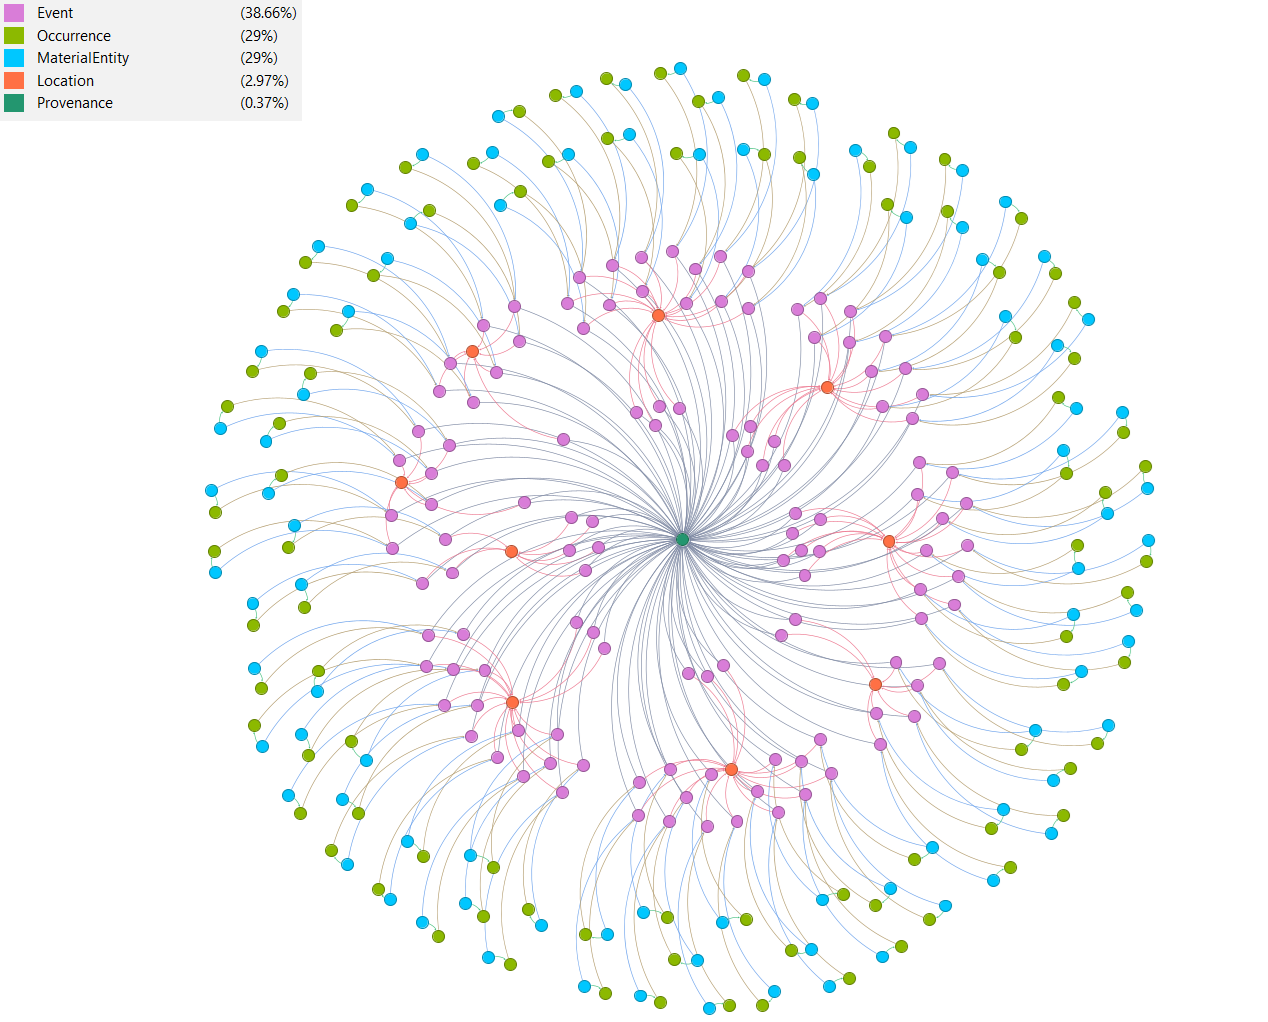
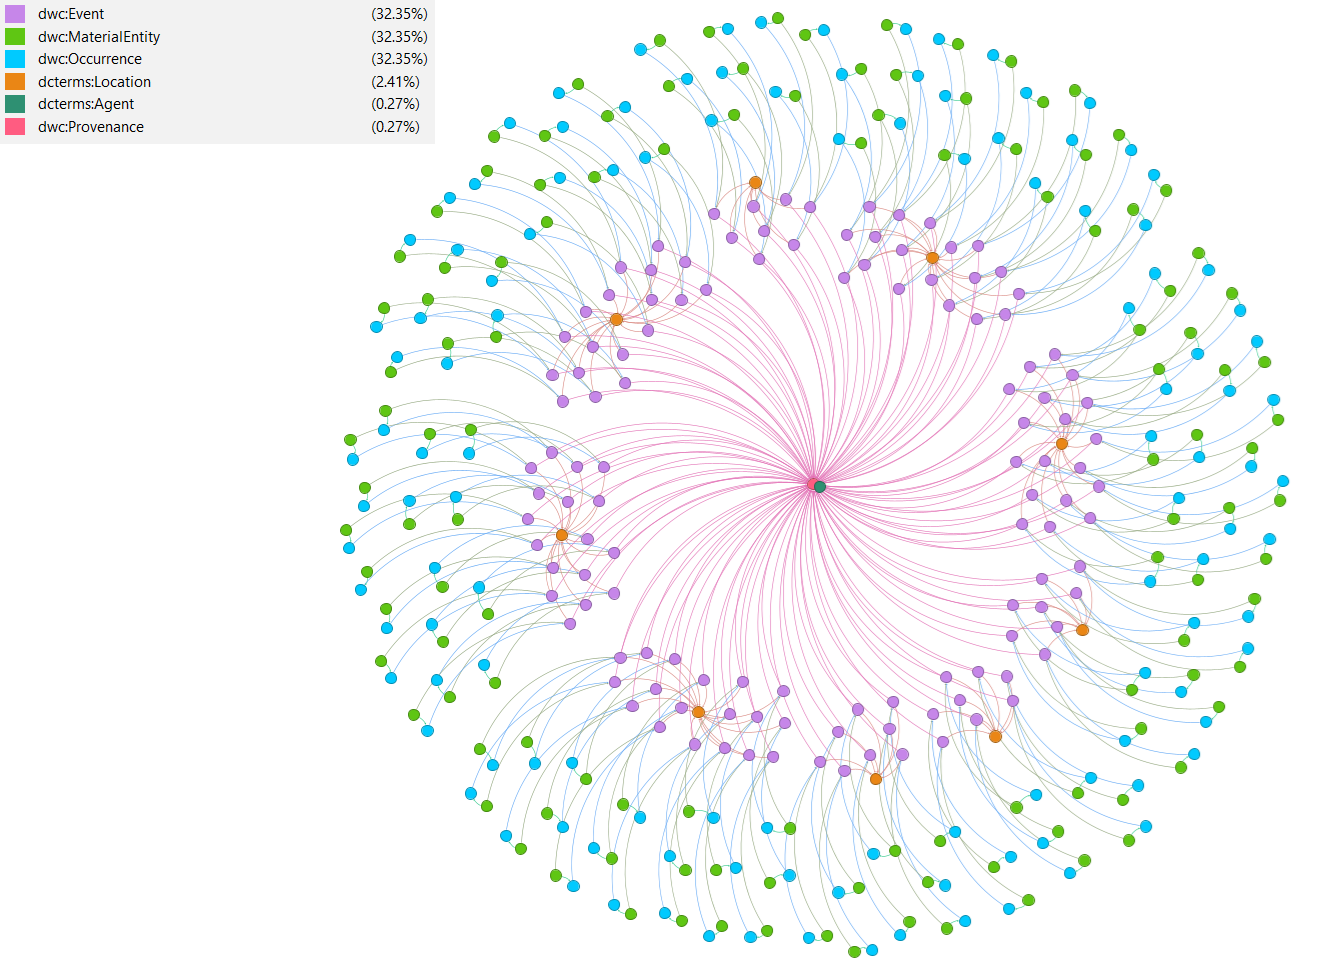
add broke-west fish text

diff --git a/README.md b/README.md
@@ -52,6 +52,231 @@ Each dataset will therefore be described according to the following structure:
 
 ## Real-world datasets
 
+### Broke-West fish
+
+- **Dataset definition**: During the the BROKE-west cruise of RV Aurora Australis from January 2nd to March 17th, 2006, fish were sampled in the CCAMLR subarea of the Antarctic coastline. Sampling was conducted using Rectangular Midwater Trawl (RMT) nets to target midwater fish. Two trawling methods were employed: target trawls directed at acoustically detected aggregations, and routine double oblique hauls from the surface down to 200 m and back. The study considers a variety of material entities derived from the caught fish, as well as media images of these entities.
+
+- **Dataset organization**: The dataset, as a Darwin Core DataPackage was obtained [from the GBIF test IPT](https://dwcdp-ipt.gbif-test.org/resource?r=broke-west-fish). The DataPackage contains 22 .csv files, corresponding to the different tables [based on the suggested DwCDP SQL schema](https://raw.githubusercontent.com/gbif/dwc-dp-examples/refs/heads/master/gbif/dwc_dp_schema.sql).
+
+- **Modelling considerations**: Although modelling this dataset requires a relatively high number of classes (fifteen), the overall approach is not particularly complex once the dataset structure is understood and have seen enough examples on this page. For instance, `dwc:Occurrences` take place within nested `dwc:Events`, which are conducted by `dcterms:Agents`. The relationships defined in the ontology closely mirror the structure of the dataset itself. This highlights evidenced by the thoughtful laying out of the tables and their relationships in the DwCDP model.
+
+  One modelling aspect that deserves special attention, and which will be discussed further in a subsequent section, is the handling of entries in the `agent-agent-role.csv` table. This table relates individual `dcterms:Agent` instances to another `dcterms:Agent` representing a collective or group. These group agents are then related to scientific publications, modelled as `dcterms:BibliographicResource`, via authorship relationships. While this approach is conceptually straightforward, it introduces additional complexity that may not always be necessary.
+
+  Because this table represents relationships between pairs of `rdfs:Resource` instances (or `owl:Thing`, depending on how you model it), `dwc:AgentAgentRole` class was treated here as a subclass of the more general `dwc:ResourceRelationship`. As such, it inherits properties from its parent class, while allowing additional properties to capture more specific information, such as author order within a publication.
+
+  Another modelling challenge concerns the representation of protocols associated with event assertions, material entities, and surveys. This is addressed by defining the range of the object property `dwcdp:follows` as `dwc:Protocol`, while allowing for a broad domain that includes `dwc:Assertion`, `dwc:MaterialEntity`, and `eco:Survey`.
+
+- **Ontology subset considered**: Compared to the other datasets examined, the Broke-West fish dataset requires a relatively large number of classes and a complex network of relationships. Nevertheless, the structure of these relationships remains conceptually straightforward.
+
+  Without exhaustively describing the entire graph, several notable features deserve mention:
+
+  - The instances of `dcterms:Agent` can play multiple roles, as reflected by the numerous relationships pointing toward them.
+  - Instances from several classes can be related to `dwc:Protocol` through the `dwcdp:follows` object property.
+  - Instances of `dwc:Event` can be nested within other `dwc:Event` instances via `dwcdp:happenedDuring`.
+  - `dwc:MaterialEntity` instances can themselves be derived from other `dwc:MaterialEntity` instances using the `dwcdp:derivedFrom` object property.
+
+![Ontology subset for the broke dataset](images/subset/broke-small.png)
+
+- **Additions made**: Given the level of documenting of the dataset, no considerable additions were made. The researcher Yi-Ming Gan, who provided metadata for the currently up to 18 versions of the dataset on the test IPT was modeled as a `dcterms:Agent` and added to the dataset as a metadata provider.
+
+- **Difficulties encountered**: The dataset is exceptionally well annotated: IRIs are provided for nearly every measurement, and all fields are carefully documented. Nevertheless, four specific issues were identified during modelling:
+
+  2. The `agent-agent-role.txt` table was also a bit of an issue to deal with. Indeed, there is already the object property `dwcdp:authoredBy`, which is a subproperty of `dcterms:creator` to link bibliographic resources to their authors. Consequently, consideration of such a concept seemed like a making the relationship between authors and bibliographic resource more complex. Likewise, no such approach can be taken if the bibliographic resource considers a single author. However, such an approach can have its merit if:
+
+    - The contribution to the bibliographic resource might need to be more detailed. For example, the property `dwc:agentRoleOrder` allows the consideration of the author order in a group of authors. A similar approach can consider RDF lists, but would require consideration of all authors to preserve numerical order.
+    - The relationship between two `dcterms:Agents` needs to be more defined. For example, one agent might be a researcher, and another might be an institution. The relationship might be more fleshed out through roles and periods, through which the role was active.
+
+  If both possibilities are considered (i.e. allowing `dcterms:Agent` to represent both individual authors and groups of authors), users should be made aware of it so as to not hit a stumbling block during queries. Suppose that the triples were loaded into a triplestore and exposed through a SPAQL endpoint. The simple following SPARQL query which, for brevity's sake, considers property paths, can be used to make the matter clearer:
+
+  ```sparql
+  PREFIX dcterms: <http://purl.org/dc/terms/>
+  PREFIX dwc: <http://rs.tdwg.org/dwc/terms/>
+  PREFIX dwcdp: <http://rs.tdwg.org/dwcdp/terms/>
+  
+  SELECT ?occ
+  
+  WHERE {
+    ?occ a dwc:Occurrence ;
+         dwcdp:happenedDuring/^dwcdp:happenedDuring/dwcdp:followed/dwcdp:mentionedIn ?bib .
+  
+      ?bib a dcterms:BibliographicResource ;
+           dwcdp:authoredBy <https://orcid.org/0000-0002-2042-5095> .
+  }
+  ```
+
+  Where `<https://orcid.org/0000-0002-2042-5095>` is the ORCiD ID of Kawaguchi So, the principal author of the protocol used for the surveys in the study. This query should return all occurrences that followed a `dwc:Protocol` that was mentioned in a `dcterms:BibliographicResource` authored by So Kawaguchi. Surprisingly, this query will come up empty, because he is not the author of his own paper. To be technical, the group of authors, modeled as a `dcterms:Agent`, of which he is part of, is the actual author. This can be seen in the following query, which successfully retrieves the data:
+
+  ```sparql
+  PREFIX dcterms: <http://purl.org/dc/terms/>
+  PREFIX dwc: <http://rs.tdwg.org/dwc/terms/>
+  PREFIX dwcdp: <http://rs.tdwg.org/dwcdp/terms/>
+  
+  SELECT ?occ
+  
+  WHERE {
+    ?occ a dwc:Occurrence ;
+         dwcdp:happenedDuring/^dwcdp:happenedDuring/dwcdp:followed/dwcdp:mentionedIn ?bib .
+  
+    ?bib a dcterms:BibliographicResource ;
+         dwcdp:authoredBy ?agentG .
+      
+    ?agentG a dcterms:Agent ;
+            ^dwcdp:relationshipWith ?aARole .
+            
+    ?aARole a dwc:AgentAgentRole ;
+            dwc:relationshipOfResource "isPartOf" ;
+            dwcdp:relationshipBy <https://orcid.org/0000-0002-2042-5095> .
+  }
+  ```
+
+  This query succeeds because it does not ask for a bibliographic resource where Kawaguchi So is the author, but rather for those where he is part of the agent that is the author. Note that, there is a quicker way to write the query, once again using property paths, which would link the bibliographic resource to Kawaguchi So as `dwcdp:authoredBy/^dwcdp:relationshipWith/dwcdp:relationshipBy <https://orcid.org/0000-0002-2042-5095> .`. However, the risk of proceeding in this manner is that it would return data irrespective of the relationship Kawaguchi So has with regards to the author group (e.g. he might be a role not directly involved with authorship).
+
+  Finally, note that, if both paths are allowed for data entry, a safer way to query the triplestore would be:
+
+  ```sparql
+  PREFIX dcterms: <http://purl.org/dc/terms/>
+  PREFIX dwc: <http://rs.tdwg.org/dwc/terms/>
+  PREFIX dwcdp: <http://rs.tdwg.org/dwcdp/terms/>
+
+  SELECT ?occ
+
+  WHERE {
+        ?occ a dwc:Occurrence ;
+           dwcdp:happenedDuring/^dwcdp:happenedDuring/dwcdp:followed/dwcdp:mentionedIn ?bib .
+ 
+    {
+      ?bib a dcterms:BibliographicResource ;
+           dwcdp:authoredBy <https://orcid.org/0000-0002-2042-5095> .
+    }
+    UNION
+    {
+      ?bib a dcterms:BibliographicResource ;
+           dwcdp:authoredBy ?agentG .
+
+      ?agentG a dcterms:Agent ;
+              ^dwcdp:relationshipWith ?aARole .
+  
+      ?aARole a dwc:AgentAgentRole ;
+               dwc:relationshipOfResource "isPartOf" ;
+               dwcdp:relationshipBy <https://orcid.org/0000-0002-2042-5095> .
+    }
+  }
+  ```
+
+  This query requests the same data, but for either a bibliographic resource where Kawaguchi So is the author OR by a group of authors of which he is part of. The joy of SPARQL.
+
+  2. The term of `eco:SurveyTarget` is very recent, having been proposed along with the DwCDP publishing model. It plays a role similar to the existing terms of `eco:targetDegreeOfEstablishmentScope`, `eco:targetGrowthFormScope`, `eco:targetHabitatScope`, `eco:targetLifeStageScope` and `eco:targetTaxonomicScope` in the Humboldt Extension Vocabulary. However, in this case, the use of the terms `eco:surveyTargetType`, `eco:surveyTargetValue` and possibly `eco:surveyTargetUnit` allow for a more detailed definition of the survey target of a study. For example, a survey target may be defined in terms of body size, which was not considered in the previous terms.
+
+  This brings the issue of the following two nodes:
+
+  ```turtle
+  <https://bioboum.ca/survey-target/broke-west-rmt-003-rmt8-234582> a eco:SurveyTarget ;
+      dwcdp:surveyID "BROKE_WEST_RMT_003_RMT8" ;
+      dwcdp:surveyTargetID "BROKE_WEST_RMT_003_RMT8_234582" ;
+      dwcdp:targetFor <https://www.bioboum.ca/survey/broke-west-rmt-003-rmt8> ;
+      bb:hasDefinition [ dcterms:type dwc:taxon ;
+              eco:includeOrExclude "include" ;
+              eco:isSurveyTargetFullyReported true ;
+              eco:surveyTargetType "taxon" ;
+              eco:surveyTargetTypeIRI dwc:taxon ;
+              eco:surveyTargetValue "Chionodraco" ;
+             eco:surveyTargetValueIRI <urn:lsid:marinespecies.org:taxname:234582> ],
+          [ dcterms:type dwc:taxonRank ;
+              eco:includeOrExclude "include" ;
+              eco:isSurveyTargetFullyReported true ;
+              eco:surveyTargetType "taxonRank" ;
+              eco:surveyTargetTypeIRI dwc:taxonRank ;
+              eco:surveyTargetValue "Genus" ;
+              eco:surveyTargetValueIRI dwc:genus ],
+          [ dcterms:type <http://vocab.nerc.ac.uk/collection/P01/current/OBSMINLX/> ;
+              eco:includeOrExclude "include" ;
+              eco:isSurveyTargetFullyReported true ;
+              eco:surveyTargetType "minimum body size" ;
+              eco:surveyTargetTypeIRI <http://vocab.nerc.ac.uk/collection/P01/current/OBSMINLX/> ;
+              eco:surveyTargetUnit "mm" ;
+              eco:surveyTargetUnitIRI <http://vocab.nerc.ac.uk/collection/P06/current/UXMM/> ;
+              eco:surveyTargetValue "0.85" ],
+          [ dcterms:type <http://vocab.nerc.ac.uk/collection/P01/current/OBSMAXLX/> ;
+              eco:includeOrExclude "include" ;
+              eco:isSurveyTargetFullyReported true ;
+              eco:surveyTargetType "maximum body size" ;
+              eco:surveyTargetTypeIRI <http://vocab.nerc.ac.uk/collection/P01/current/OBSMAXLX/> ;
+              eco:surveyTargetUnit "m" ;
+              eco:surveyTargetUnitIRI <http://vocab.nerc.ac.uk/collection/P06/current/ULAA/> ;
+              eco:surveyTargetValue "3" ] .
+
+  <https://bioboum.ca/survey-target/broke-west-rmt-016-rmt8-234582> a eco:SurveyTarget ;
+      dwcdp:surveyID "BROKE_WEST_RMT_016_RMT8" ;
+      dwcdp:surveyTargetID "BROKE_WEST_RMT_016_RMT8_234582" ;
+      dwcdp:targetFor <https://www.bioboum.ca/survey/broke-west-rmt-016-rmt8> ;
+      bb:hasDefinition [ dcterms:type <http://vocab.nerc.ac.uk/collection/P01/current/OBSMINLX/> ;
+              eco:includeOrExclude "include" ;
+              eco:isSurveyTargetFullyReported true ;
+              eco:surveyTargetType "minimum body size" ;
+              eco:surveyTargetTypeIRI <http://vocab.nerc.ac.uk/collection/P01/current/OBSMINLX/> ;
+              eco:surveyTargetUnit "mm" ;
+              eco:surveyTargetUnitIRI <http://vocab.nerc.ac.uk/collection/P06/current/UXMM/> ;
+              eco:surveyTargetValue "0.85" ],
+          [ dcterms:type dwc:taxon ;
+              eco:includeOrExclude "include" ;
+              eco:isSurveyTargetFullyReported true ;
+              eco:surveyTargetType "taxon" ;
+              eco:surveyTargetTypeIRI dwc:taxon ;
+              eco:surveyTargetValue "Chionodraco" ;
+              eco:surveyTargetValueIRI <urn:lsid:marinespecies.org:taxname:234582> ],
+          [ dcterms:type dwc:taxonRank ;
+              eco:includeOrExclude "include" ;
+              eco:isSurveyTargetFullyReported true ;
+              eco:surveyTargetType "taxonRank" ;
+              eco:surveyTargetTypeIRI dwc:taxonRank ;
+              eco:surveyTargetValue "Genus" ;
+              eco:surveyTargetValueIRI dwc:genus ],
+          [ dcterms:type <http://vocab.nerc.ac.uk/collection/P01/current/OBSMAXLX/> ;
+              eco:includeOrExclude "include" ;
+              eco:isSurveyTargetFullyReported true ;
+              eco:surveyTargetType "maximum body size" ;
+              eco:surveyTargetTypeIRI <http://vocab.nerc.ac.uk/collection/P01/current/OBSMAXLX/> ;
+              eco:surveyTargetUnit "m" ;
+              eco:surveyTargetUnitIRI <http://vocab.nerc.ac.uk/collection/P06/current/ULAA/> ;
+              eco:surveyTargetValue "3" ] .
+  ```
+
+  Taking into account the fact that the order of the blank nodes do not matter, both nodes are identical with regards to their definition of the survey target. Both of these survey targets correspond to `consider every organism that belongs to the genus Chionodraco and whose body size falls between 0.85 mm and 3 m`. The only noticeable differences are their URIs and the URI of the `eco:Survey` they are a target for. However, seeing as they are the same target, fusioning these two nodes might be considered, so as to reduce the number of repetitive `eco:SurveyTarget` nodes.
+
+  3. A total of six protols are given in the `protocol.csv` table, `ctd`, `dry_mass_and_energy_content`, `light_conditions` `RMT_Routine`, `RMT_Target`, `stomach_content`. Accordingly, each was modeled as a `dwc:Protocol` with corresponding entries. However, only two, `ctd` and `light_conditions` are directly referenced by their protocolID in the tables.
+
+  For `dry_mass_and_energy_content`, there should have been columns for `assertionProtocols` and `assertionProtocolID` to link it back to this protocol in the `material-assertion.csv` table. This approach was taken, by adding entries for these fields when the entry for `dwc:assertionType` was `Energy Content Dry Weight`.
+
+  For `stomach_content`, the issue approach would have been different. In this case, [based on the suggested DwCDP SQL schema](https://raw.githubusercontent.com/gbif/dwc-dp-examples/refs/heads/master/gbif/dwc_dp_schema.sql), a junction table of `material_protocol` would need to be created, joining entries from both tables. In the case of this dataset, when the entry for `materialEntityType` contained the string `stomachContent`, a relationship to the corresponding protocol was established. Note that this will also consider all minor variations (to the best of my knowledge), such as `stomachContent - mucus`, `stomachContent - st wall` or `stomachContent - facet eye`.
+
+  The same issue came up for `RMT_Target` and `RMT_Routine`, where a junction table of `survey_protocol` would need to be considered. In this case, `dwcdp:follows` was used to relate the `eco:Survey` to the `dwc:Protocol` of `RMT_Routine` whenever the value of `eco:protocolNames` corresponded to `Pre-planned routine hauls with standard double oblique tow` and to `RMT_Target` whenever the value corresponded to `target trawls on acoustically detected aggregations`.
+
+  4. Though minor, it should be noted that one instance of `dwc:MaterialEntity`, whose corresponding `dwc:materialEntityID` value is `AAV3FF_00261` has the entry of `?` for `dwc:preparations`. It is a preserved whole organism of *Gymnodraco acuticeps*. The use of the question mark is not so much the issue, but does indicate that preservation methods are unknown. The actual issue is that this same material entity has a corresponding entry in the `material-assertion.txt` table with a blank cell. Blindly considering it in RDF would lead to the following node:
+
+  ```turtle
+  <https://bioboum.ca/material-assertion/aav3ff-00261-presrvation> a dwc:Assertion ;
+      dwcdp:about <https://bioboum.ca/material-entity/aav3ff-00261> ;
+      dwc:assertionID "AAV3FF_00261_presrvation" ;
+      dwc:assertionType "Preservation Method" ;
+      dwc:materialEntityID "AAV3FF_00261" .
+  ```
+
+  If we were to enforce a contraint that every value of `dwc:assertionType` must have an accompanying value of `dwc:assertionValue` (and vice-versa), then this node would not pass this constraint. If the preservation is unknown, it would be best to remove it. In the analysis, the entry in `material.txt` and corresponding the row in `material-assertion` have been removed.
+
+- **Graph-based representation**: The graph seems to be separated between to sections, with clusters of nodes on the sides, giving it the appearance of a creature like a sea-angel, intersting considering the dataset.
+
+  The "head" part consists essentially of `dwc:Assertions` about `dwc:Events`. More specifically, these are the assertions that followed two particular protocols, `ctd` and `light_conditions`. This has the effect of pulling the `dwc:Events` upwards, which is also shown by the fact that the node for the parent event of the entire cruise and of the `dcterms:Agent` responsible for conducting the eventh (the RV Aurora Australis) are in the "neck" region.
+
+  The "torso" part is centered around a `dcterms:Agent` node, representing the researcher Anton Van de Putte. The reason behind this is that he is credited with carrying out the sampling in the surveys, carrying out recording and identifications of the occurrences, as well as the collections and identifications of the material entities.
+
+  The "tail" part is made up of an `dwc:Occurrence` and a `dwc:Protocol` node. These correspond to an occurrence of *Pleurogramma antarcticum* with a `dwc:occurrenceID` of `BROKE_WEST_RMT_022_RMT8_234721`. The reason behind this is that this occurrence consists of 94 individuals, all of which were preserved through various methods, becoming `dwc:MaterialEntities`.
+
+  Finally, the "arms" are `eco:Survey` instances, with their associated `eco:SurveyTargets`. These relate to the `dwc:Events` during which the surveys take place and the `dwc:Occurrences` that satisfy the survey targets.
+
+![Directed graph for the broke dataset](images/complete/broke-directed-graph.png)
+
+- **Lessons learned**: This dataset demonstrates how fully leveraging the DwC-DP model enables a rich, standardized, and explicit description of how data were generated. While the resulting model is complex, it is also complete, reducing reliance on external documentation such as README files and facilitating direct reuse through structured querying.
+
 ### Colombia bird ringing
 
 - **Dataset definition**: As part of SELVA's Migration Ecology research program to study the ecology of migratory birds across ten departments in Colombia, a set of mist nets were set up across Colombia to study wild birds. This study would enable a better understanding of bird patterns, especially at stopover sites and for key conservation species such as the cerulean warbler (*Setophaga cerulea*) and the blackpoll warbler (*Setophaga striata*). Between 2018 and 2023, a total of 5 581 birds were recorded, banded and had measurements taken before being released into the wild.
@@ -735,14 +960,6 @@ Values in the `dwc:occurrenceID` column follow the form `urn:catalog:JAMSTEC:god
 
 - **Lessons learned**: Individual movement data map naturally to the DwC-OWL ontology when each tracked animal is represented as its own instance of `dwc:Organism`. These data will become increasingly important as global networks, such as [Move-BON](https://geobon.org/move-bon/), expand efforts to standardize, aggregate, and share animal tracking information.
 
-
-
-### Broke-West fish
-
-Whereas the Viridian forest survey dataset contained `251` triples, the Broke-West fish dataset contains `173 062` triples and considers more classes. Despite this, the same underlying logic can be applied to obtain a directional graph as well, which faithfully describes the dataset.
-
-![Directed graph of the Broke-West fish dataset](images/broke-directed-graph.png)
-
 ### Insektmobilen
 
 The Insektmobilen dataset produced an extremely high number of triples, due to its identification related to barcoding. Indeed, graphical representation of a subset produced `425 018` triples. The clusterings of `dwc:Identifications` correspond to successful BLAST query matches against the BOLD database. As identifications were based on dwc:NucleotideSequences, this clustering is logical and desired from a semantic point of view.
@@ -761,11 +978,6 @@ The NMNH paleobiology dataset, when expressed as a (somewhat) direct RDF transla
 
 ![Directed graph of the NMNH paleobiology dataset](images/nmnh-directed-graph.png)
 
-### Aulavik lemming nests
-
-In the case of the lemming nests dataset, consideration of a `dcterms:Location` entity was crucial, as it was the element tying all the yearly visits to the same plot. The data were modeled with a yearly count of nests being a `dwc:Event` and the nests themselves being `dwc:MaterialEntity` collected during said event. On that note, I would possibly like to consider an additional subproperty of `dwcdp:collectedDuring` to relate `dwc:MaterialEntities` to `dwc:Events`, possibly something like `dwcdp:notedDuring`, of which the former being a subproperty of the latter, indicating that the material entity was not only noted, but actually collected. If this material entity is present, then its instance is created and it becomes support for a `dwc:Occurrence` of lemmings on the parcel. The taxa considered here is lemmings, but such yearly visits are also considered for birds.
-
-![Directed graph of the aulavik-lemming-nests dataset](images/aulavik-directed-graph.png)
 
 ### Joseph Rock herbarium
 
